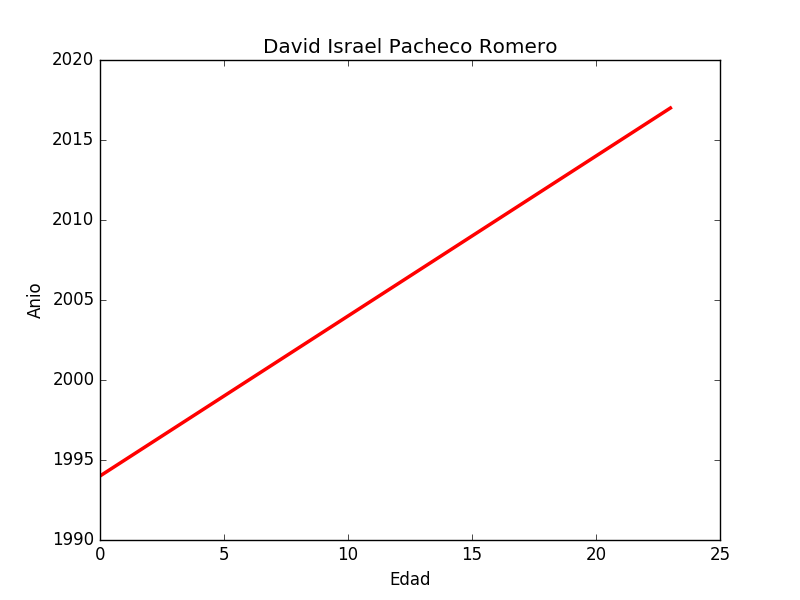
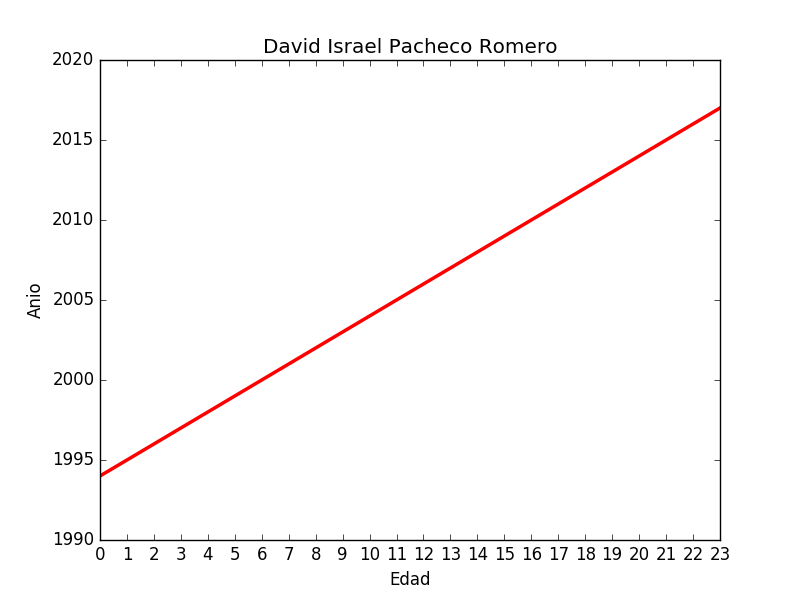
Código de seno

diff --git a/edad.py b/edad.py
@@ -3,8 +3,10 @@ import pylab as pl
 x = [0, 1, 2, 3, 4, 5, 6, 7, 8, 9, 10, 11, 12, 13, 14, 15, 16, 17, 18, 19, 20, 21, 22, 23]
 y = [1994, 1995, 1996, 1997, 1998, 1999, 2000, 2001, 2002, 2003, 2004, 2005, 2006, 2007, 2008, 2009, 2010, 2011, 2012, 2013, 2014, 2015, 2016, 2017]
 pl.title("David Israel Pacheco Romero")
+pl.xticks([0, 1, 2, 3, 4, 5, 6, 7, 8, 9, 10, 11, 12, 13, 14, 15, 16, 17, 18, 19, 20, 21, 22, 23])
 pl.ylabel('Anio')
 pl.xlabel('Edad')
+#Se agrega un color de line rojo un grosor de 2.5 puntos y un estilo de -
 pl.plot(x, y, color="red",  linewidth=2.5, linestyle="-")
 pl.savefig('edad.png')
 pl.show()

diff --git a/trigo.py b/trigo.py
@@ -1,0 +1,8 @@
+import numpy as np
+import matplotlib.pyplot as plt
+def f(t):
+    return 5 * np.sin(2*np.pi*t)+2012
+x1 = np.arange(2012, 2018, 0.01)
+plt.plot(x1, f(x1))
+plt.savefig('trig.png')
+plt.show()
